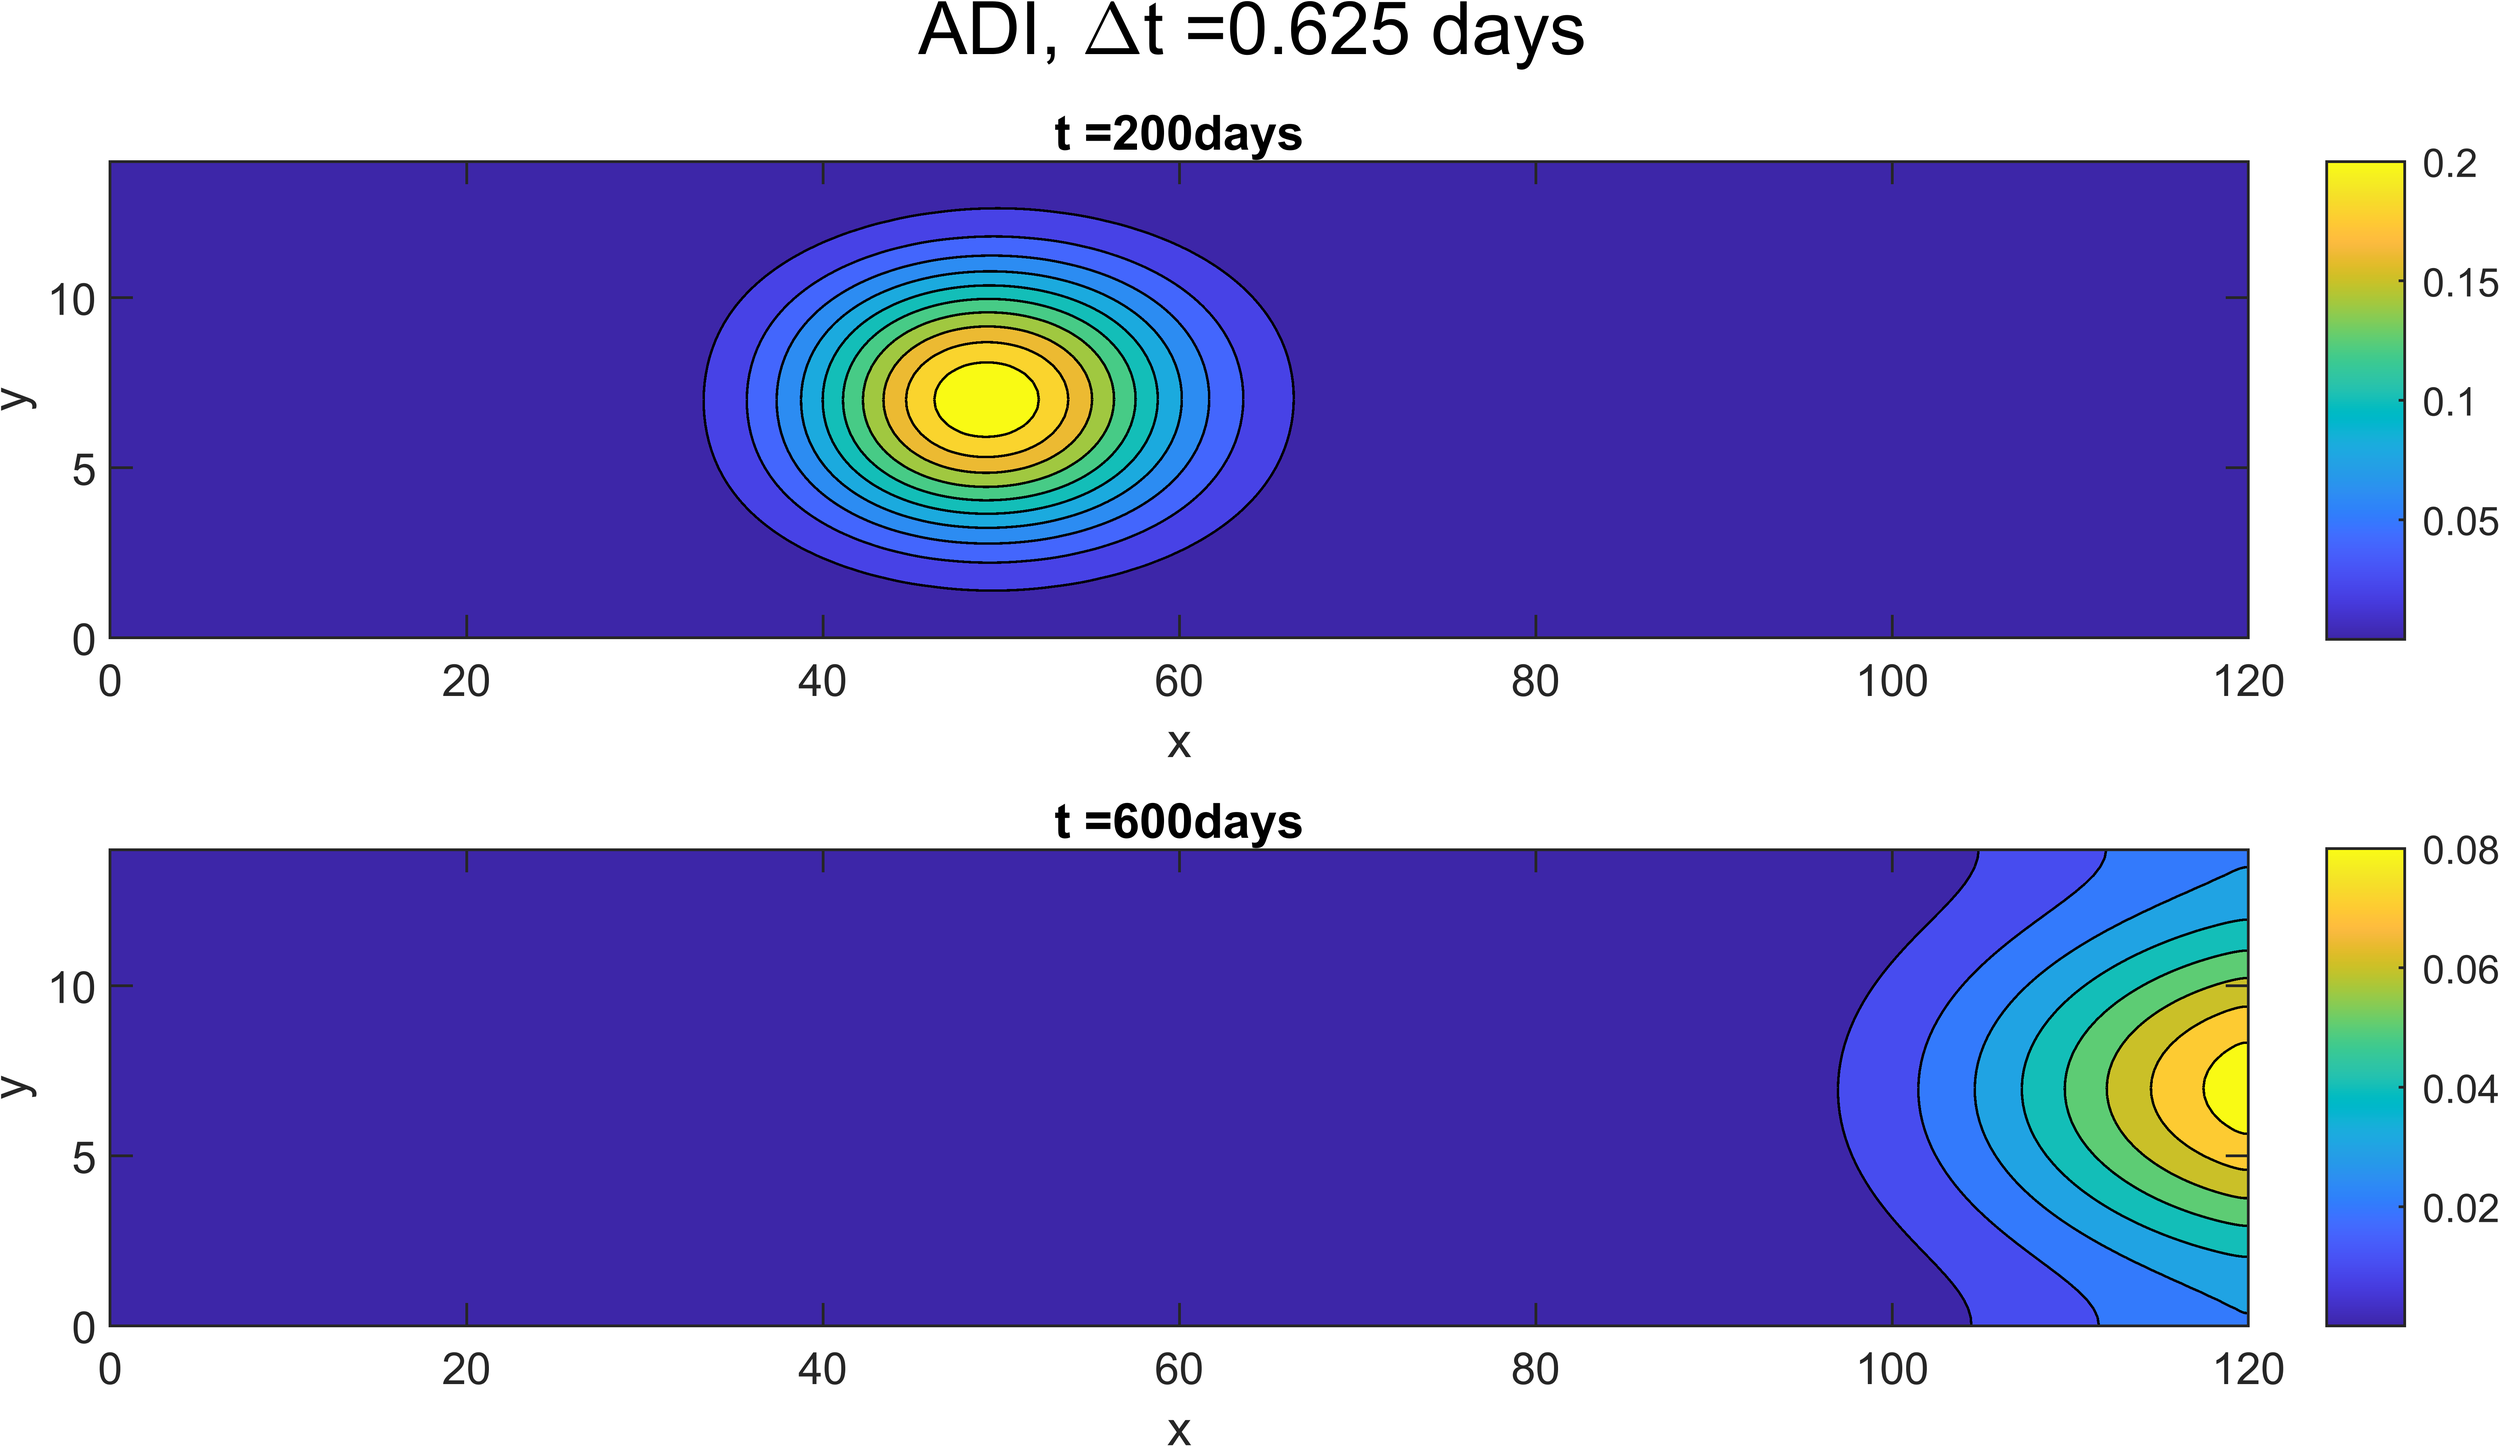
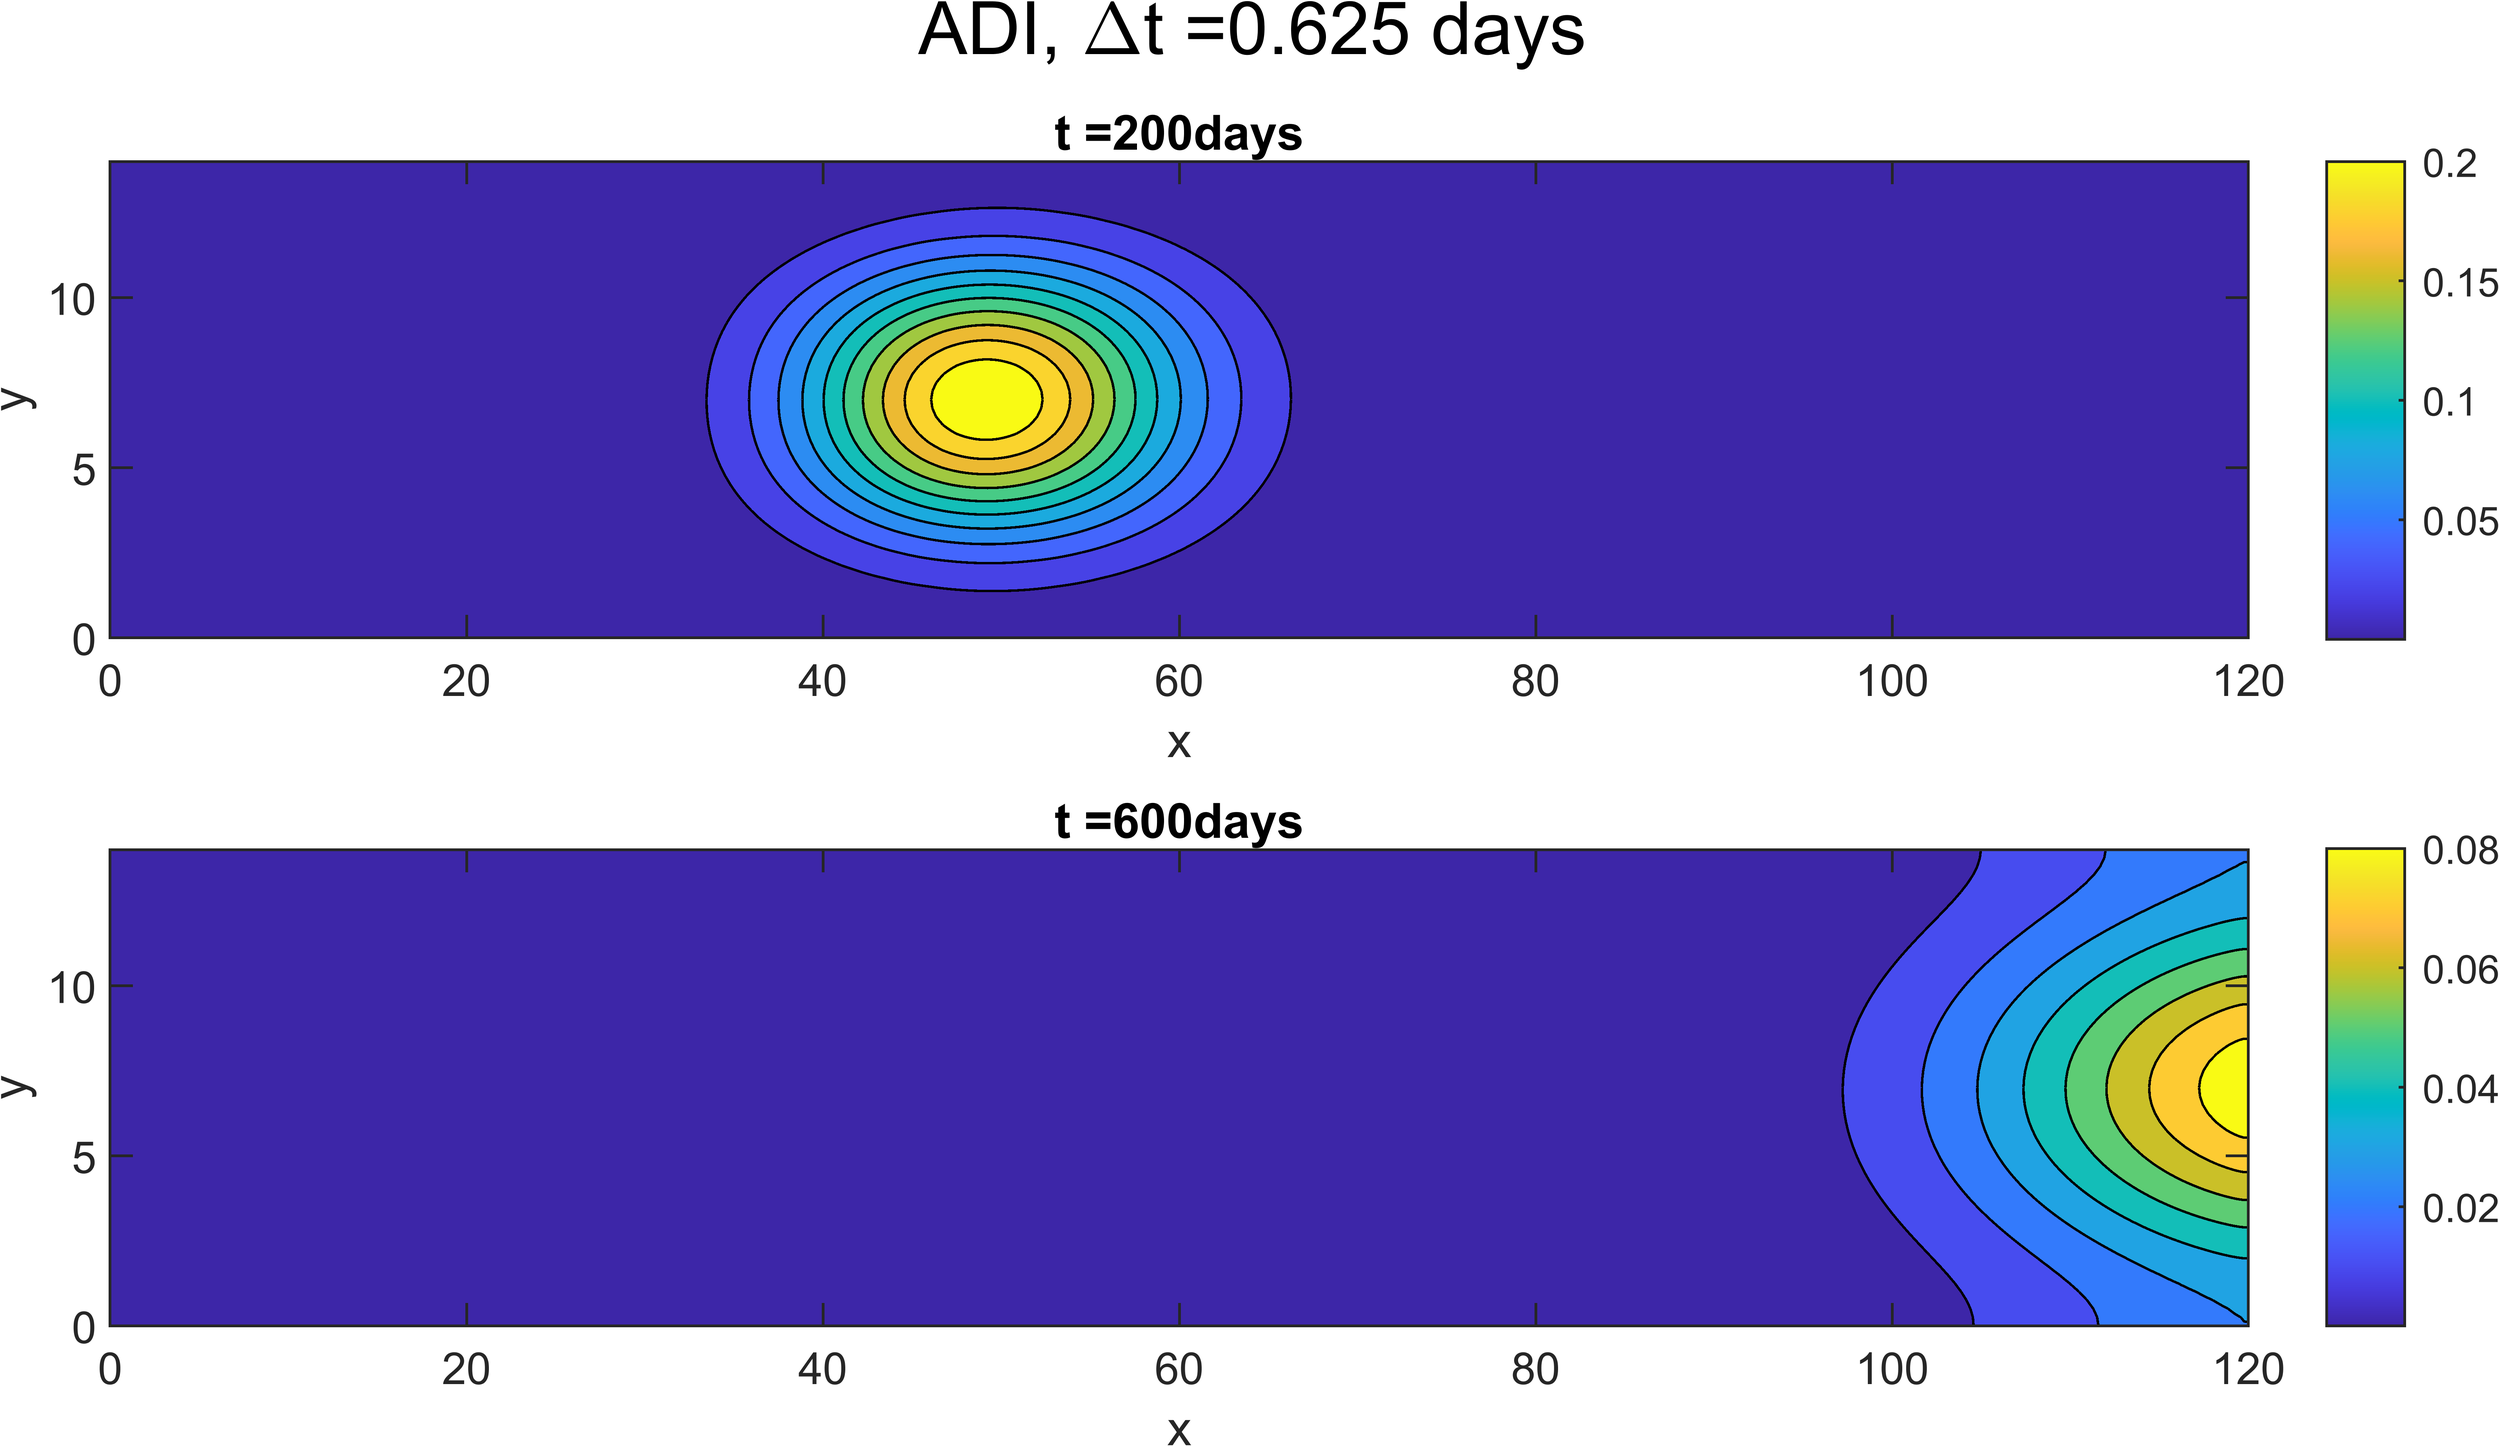
ADI_conv_expl_Fig10 toevoegen

diff --git a/ADI_convectie_expliciet_Fig10.m b/ADI_convectie_expliciet_Fig10.m
@@ -1,0 +1,221 @@
+close all
+clear all
+
+%% Initialisations
+% analoog Fig 10
+v = 0.1; %m/d
+alpha_L = 0.5; %m aanpssing tov Figuur 9, specifiek voor Figuur 10
+D_L = alpha_L*v;
+Pe = 0.5; %Peclet nummer naar 0.5
+deltax = Pe*alpha_L; %Pe*alpha_L = Pe*D_L/v
+
+Cr = 0.5;%Courant nummer 0.5
+deltat = Cr*deltax/v; %in dagen. Hierbij is schema NIET stabiel
+deltat = deltat/2; %omdat we in ADI per keer impliciet met een volledige deltat 
+%vooruitgaan => nood aan delen door 2 voor stabiliteit! 
+%experiment: deltatkleiner maken om te zien of golf trager gaat
+%deltat = deltat/16;
+
+alpha_T = 0.05; %m
+D_T = alpha_T*v;
+
+%grid
+x = 0:deltax:120; %x tot 120 m
+%bij gebrek aan info: neem hier deltay = deltax
+deltay = deltax;
+y = 0:deltay:14; %y tot 14m
+t = 0:2*deltat:800; %Dus 2 deltats per volledige ADI doorlopen
+M = length(x)-2; %aftrekken van interne knopen
+N = length(y)-2;
+%K = length(t)-1;
+R = 1;
+
+%% Coefficients Gaussian elimination
+% Coefficienten voor impliciete x-afgeleide
+alpha1=zeros(M+2,1); %alpha0 alpha1 ... alphaM+1
+alpha1(1:end-1)=-D_L/deltax^2;
+alpha1(end)=-2*D_L/deltax^2; %alpha_tilde=gamma+alpha
+beta1=R/deltat+D_L*2/deltax^2;
+gamma1=zeros(M+2,1); %gamma0 gamma1 ... gammaM+1
+gamma1(2:end)=-D_L/deltax^2;
+gamma1(1)=-2*D_L/deltax^2; %gamma_tilde=gamma+alpha
+
+KappaCoeff1=zeros(M+2,1); %kappa-1 kappa0 ... kappaM
+Y1=zeros(M+3,1); %Y-1 Y0 ... YM YM+1
+RL1=zeros(M+2,1); %RL0 RL1 ... RLM+1
+for i=2:M+2
+    KappaCoeff1(i)=gamma1(i-1)/(beta1-alpha1(i-1)*KappaCoeff1(i-1));
+end
+
+% Coefficienten voor impliciete y-afgeleide: onveranderd!
+alpha2=zeros(N+2,1); %alpha0 alpha1 ... alphaN+1
+alpha2(1:end-1)=-D_T/deltay^2;
+alpha2(end)=-2*D_T/deltay^2; %alpha_tilde=gamma+alpha
+beta2=R/deltat+D_T*2/deltay^2;
+gamma2=zeros(N+2,1); %gamma0 gamma1 ..gammaN+1
+gamma2(2:end)=-D_T/deltay^2;
+gamma2(1)=-2*D_T/deltay^2; %gamma_tilde=gamma+alpha
+
+KappaCoeff2=zeros(N+2,1); %kappa-1 kappa0 ... kappaN
+Y2=zeros(N+3,1); %Y-1 Y0 ... YN+1
+RL2=zeros(N+2,1); %RL0 RL1 ... RLN+1
+for j=2:N+2
+    KappaCoeff2(j)=gamma2(j-1)/(beta2-alpha2(j-1)*KappaCoeff2(j-1));
+end
+
+C=zeros(N+2,M+2);
+
+%% Initial condition
+%for i=find(x==10):find(x==14.600000000000001)
+%    for j=find(y==4.2):find(y==9.8)
+%        C(j,i)=1; %NIET GEGEVEN!!!
+%    end
+%end
+%altneratieve implementatie, analoog aan Fig10_GS script
+idx = x >= 10 & x <= 14.6;
+idy = y >= 4.2 & y <= 9.8;
+%beter idee! om rekening te houden met de imaginaire knopen
+posx = find(idx); 
+posy = find(idy); 
+C0 = 1; %bv 1 kg/m^3 dus
+C(posy,posx) = C0;
+%% Plot of the initial condition
+step=0;
+surf(x,y,C,'linestyle','none');
+xlabel('x')
+ylabel('y')
+zlabel('c')
+title('Project 1')
+Ani(1) = getframe;
+
+%% ADI
+tic
+t_vis = 0:5:800; 
+C_visualisatie = zeros(N+2,M+2,length(t_vis));
+kvis = 1;
+for tijd = t
+    step=step+1;
+    for j=1:N+2
+        for i=1:M+2
+            if j==1 %niet meer steunend op C(j-1,i)
+                if i == 1
+                    RL1(i)=(R/deltat-D_T*2/deltay^2)*C(j,i)+2*D_T/deltay^2*C(j+1,i) -...
+                        v/(2*deltax)*C(j,i+1)+v/(2*deltax)*C(j,i+1);
+                elseif i == M+2
+                    RL1(i)=(R/deltat-D_T*2/deltay^2)*C(j,i)+2*D_T/deltay^2*C(j+1,i) -...
+                        v/(2*deltax)*C(j,i-1)+v/(2*deltax)*C(j,i-1);
+                else
+                    RL1(i)=(R/deltat-D_T*2/deltay^2)*C(j,i)+2*D_T/deltay^2*C(j+1,i) -...
+                        v/(2*deltax)*C(j,i+1)+v/(2*deltax)*C(j,i-1);
+                end
+            elseif j==N+2  %niet meer steunend op C(j+1,i)
+                if i == 1
+                    RL1(i)=2*D_T/deltay^2*C(j-1,i)+(R/deltat-D_T*2/deltay^2)*C(j,i) -...
+                        v/(2*deltax)*C(j,i+1)+v/(2*deltax)*C(j,i+1);
+                elseif i == M+2
+                    RL1(i)=2*D_T/deltay^2*C(j-1,i)+(R/deltat-D_T*2/deltay^2)*C(j,i) -...
+                        v/(2*deltax)*C(j,i-1)+v/(2*deltax)*C(j,i-1);
+                else
+                    RL1(i)=2*D_T/deltay^2*C(j-1,i)+(R/deltat-D_T*2/deltay^2)*C(j,i) -...
+                        v/(2*deltax)*C(j,i+1)+v/(2*deltax)*C(j,i-1);
+                end
+            else
+                if i == 1
+                    RL1(i)=D_T/deltay^2*C(j-1,i)+(R/deltat-D_T*2/deltay^2)*C(j,i)+...
+                        D_T/deltay^2*C(j+1,i) - v/(2*deltax)*C(j,i+1)+v/(2*deltax)*C(j,i+1);
+                elseif i == M+2
+                    RL1(i)=D_T/deltay^2*C(j-1,i)+(R/deltat-D_T*2/deltay^2)*C(j,i)+...
+                        D_T/deltay^2*C(j+1,i) - v/(2*deltax)*C(j,i-1)+v/(2*deltax)*C(j,i-1);
+                else
+                    RL1(i)=D_T/deltay^2*C(j-1,i)+(R/deltat-D_T*2/deltay^2)*C(j,i)+...
+                        D_T/deltay^2*C(j+1,i) - v/(2*deltax)*C(j,i+1)+v/(2*deltax)*C(j,i-1);
+                end
+            end
+            Y1(i+1)=(RL1(i)-alpha1(i)*Y1(i))/(beta1-alpha1(i)*KappaCoeff1(i));
+        end
+        C(j,M+2)=Y1(M+3);
+        for i=M+1:-1:1
+            C(j,i)=Y1(i+1)-KappaCoeff1(i+1)*C(j,i+1);
+        end
+    end
+    %sjoemlen: zet manueel getallen kleiner dan 0 gelijk aan 0
+    %id_replace = C(:,:) < 1e-5; %Dus zet alle kleine getallen gelijk aan al
+    %C(id_replace) = 0;
+    for i=1:M+2
+        for j=1:N+2
+            if i==1
+                RL2(j)=(R/deltat-D_L*2/deltax^2)*C(j,i)+2*D_L/deltax^2*C(j,i+1);
+            elseif i==M+2
+                RL2(j)=2*D_L/deltax^2*C(j,i-1)+(R/deltat-D_L*2/deltax^2)*C(j,i);
+            else
+                RL2(j)=(D_L/deltax^2+v/(2*deltax))*C(j,i-1)+(R/deltat-D_L*2/deltax^2)*C(j,i)+(D_L/deltax^2-v/(2*deltax))*C(j,i+1);
+            end
+            Y2(j+1)=(RL2(j)-alpha2(j)*Y2(j))/(beta2-alpha2(j)*KappaCoeff2(j));
+        end
+        C(N+2,i)=Y2(N+3);
+        for j=N+1:-1:1
+            C(j,i)=Y2(j+1)-KappaCoeff2(j+1)*C(j+1,i);
+        end
+    end
+    %id_replace = C(:,:) < 1e-5; %Dus zet alle kleine getallen gelijk aan al
+    %C(id_replace) = 0;
+    %surf(x,y,C,'linestyle','none');
+    if rem(tijd,5) == 0
+        C_visualisatie(:,:,kvis) = C;
+        kvis = kvis + 1;
+        contourf(x,y,C)
+        colorbar
+        xlabel('x')
+        ylabel('y')
+        zlabel('C')
+        title(strcat('ADI, convection explicit: time = ',num2str(tijd)))
+        Ani(step+1) = getframe;
+    end
+    %voor fig 10 nabootsen
+    if tijd == 200
+        C200 = C;
+    elseif tijd == 600
+        C600 = C;
+    end
+end
+toc
+
+%% Fig 10 nabootsen
+tijden = [200,600];
+f = figure();
+f.Position(3:4) = [1.5*560,420];
+Cs = {C200,C600};
+for i = 1:length(tijden)
+    subplot(2,1,i)
+    C = Cs{i};
+    contourf(x,y,C)
+    xlabel('x')
+    ylabel('y')
+    title(strcat('t =',num2str(tijden(i)),'days'))
+    colorbar
+end
+sgtitle(strcat('ADI convection explicit, \Deltat = ',num2str(deltat),' days'))
+exportgraphics(gcf,'Figuur_10_ADI_conv_explicit.png','Resolution',900)
+toc
+
+
+%% Play the animation
+
+%figure()
+%for i = 1:length(t_vis)
+%    t = t_vis(i);
+%    contourf(x,y,C_visualisatie(:,:,i))
+%    colorbar
+%    xlabel('x')
+%    ylabel('y')
+%    zlabel('C')
+%    title(strcat('ADI, convection explicit: time = ',num2str(t)))
+%    Ani(step+1) = getframe;
+%end
+%movie(Ani,0)
+
+video = VideoWriter('With_diff_movie.mp4');
+video.FrameRate = 60;
+open(video);
+writeVideo(video, Ani);
+close(video);

diff --git a/GS_3D.m b/GS_3D.m
@@ -1,4 +1,4 @@
-%% Figuur 10 via Gauss-Seidel bis
+%% Parameters van figuur 10, nu in 3D
 %clear all
 %close all
 tic 
@@ -26,34 +26,41 @@ x = 0:deltax:120; %x tot 120 m
 deltay = deltax;
 deltaz = deltax; %analoog dus
 y = 0:deltay:14; %y tot 14m
-z = 0:deltaz:20; %dus van het oppervlak tot 20m onder het oppervlak
+z = 2:deltaz:20; 
+%idee van GWT op 2 m
 t = 0:deltat:600; %tot dag 600 in de figuur
 M = length(x)-2; %aftrekken van interne knopen
 N = length(y)-2;
 Z = length(z)-2;
 K = length(t)-1;
 
-u = zeros(N+4,M+4,K+1); %dus een 3D matrix
+u = zeros(N+4,M+4,Z+4); %dus een 3D matrix!!
 %initiele condities
 idx = x >= 10 & x <= 14.6;
 idy = y >= 4.2 & y <= 9.8;
-idz = z >= 4 & y <= 8; %Veronderstel dat dit in de VERZADIGD ZONE is 
-%beter idee! om rekening te houden met de imaginaire knopen
+idz = z >= 2 & z <= 8; 
 posx = find(idx) + 1; %omdat indexering start op -1
 posy = find(idy) +1; %idem
-C0 = 1; %bv 1 kg/m^3 dus
-u10(posy,posx,1) = C0;
+posz = find(idz); %hier niet selecteren uit de matrix
+concentraties = linspace(1,0,length(posz));
+for i = 1:length(posz)
+    C0 = concentraties(i);
+    u(posy,posx,posz(i)) = C0;
+end
 
-%plot de initiele conditie
+%plot de initiele conditie in xz vlak
+ydoorsnede = (4.2 + 9.8)/2;
+idy_doorsnede = y == ydoorsnede;
+posy_doorsnede = find(idy_doorsnede) +1;
 figure()
-surf(x,y,u10(2:end-1,2:end-1,1),'LineStyle','none')
-figure()
-contourf(x,y,u10(2:end-1,2:end-1,1))
+uxz = squeeze(u(posy_doorsnede,2:end-1,2:end-1));
+contourf(x,z,uxz')
+%gebruik squeeze om 2D matrix te krijgen!!!
 xlabel('x')
-ylabel('y')
+ylabel('z')
+set ( gca, 'ydir', 'reverse' )
 colorbar
-
-%aaanpassing
+title(strcat('Initial conditions in the xz-plane: y = ',num2str(ydoorsnede)',' m'))
 
 %% Gauss Seidel iteratie
 difference = 1;
@@ -66,8 +73,8 @@ B2 = -D_L/deltax^2 + v/(2*deltax);
 B3 = -D_L/deltax^2 - v/(2*deltax);
 B4 = -D_T/deltay^2;
 B5 = B4;
-B6 = 
-B7 = 
+%B6 = 
+%B7 = 
 
 %unew = zeros(N+4,M+4,K+1);
 %unew = u;
